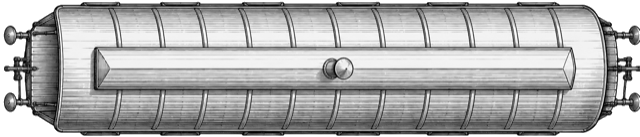
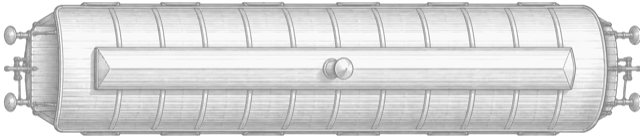
La machine prend la tête de la rame, et l'encrage s'allège de moitié
`assets/da/loco.png` rejoint la voiture. Elle est venue AVEC SON TENDER —
superbe, et encombrant : la planche fait un pour quatre virgule sept là où il
en fallait deux. Or la tête d'une rame occupe une place bornée par le convoi le
plus court : deux voitures, soixante-cinq unités en tout. On ne garde donc que
la MACHINE, de la cabine à la cheminée, et le tender reste dans les sources.
La planche est aussi RETOURNÉE : le jeu lit une tranche de gauche à droite et
pose celle de tête au début de la rame, la cheminée doit donc être à gauche.

UNE RAME COURTE NE PEUT PAS PORTER TOUTE LA MACHINE : quatre-vingt-seize unités
demandées pour soixante-cinq disponibles. Les deux bouts se comprimeraient l'un
sur l'autre ; ils se partagent désormais la place au prorata. Cela ne touche
que les convois de deux ou trois voitures, et un raccourcissement se lit mieux
qu'un empilement.

L'ENCRAGE DESCEND À LA MOITIÉ, et c'est la mesure qui compte. À pleine force la
gravure porte son propre ombré et mange la vivacité de la couleur — or ici la
couleur EST la destination, et c'est elle qui doit se lire en premier. Au banc,
la ligne V à taille réelle était un objet sombre et brun là où les quatre
autres annonçaient leur teinte d'un coup d'œil. Le gris s'éclaircit donc de
moitié à la dérivation : le trait reste, le modelé s'allège, le lavis ressort.
Un seul nombre, `ENCRAGE`, et il se change sans retoucher les sources.
[…]

diff --git a/tools/lire_png.py b/tools/lire_png.py
@@ -1,0 +1,28 @@
+# Lire un PNG sans dépendance : c'est la seule chose que `sips` ne sache pas
+# faire, et le projet n'installe rien.
+def lire(p):
+    import zlib, struct
+    d = open(p, 'rb').read(); i = 8; idat = b''; w = hh = bd = ct = 0
+    while i < len(d):
+        ln = struct.unpack('>I', d[i:i+4])[0]; t = d[i+4:i+8]
+        dat = d[i+8:i+8+ln]; i += 12 + ln
+        if t == b'IHDR': w, hh, bd, ct = struct.unpack('>IIBB', dat[:10])
+        elif t == b'IDAT': idat += dat
+        elif t == b'IEND': break
+    raw = zlib.decompress(idat); nc = {0:1, 2:3, 3:1, 4:2, 6:4}[ct]
+    bpp = nc * bd // 8; st = w * bpp
+    out = bytearray(); prev = bytearray(st); p2 = 0
+    for y in range(hh):
+        f = raw[p2]; p2 += 1; l = bytearray(raw[p2:p2+st]); p2 += st
+        for x in range(st):
+            a = l[x-bpp] if x >= bpp else 0; b = prev[x]
+            c = prev[x-bpp] if x >= bpp else 0
+            if f == 1: l[x] = (l[x] + a) & 255
+            elif f == 2: l[x] = (l[x] + b) & 255
+            elif f == 3: l[x] = (l[x] + (a + b) // 2) & 255
+            elif f == 4:
+                pa = abs(b-c); pb = abs(a-c); pc = abs(a+b-2*c)
+                pr = a if (pa <= pb and pa <= pc) else (b if pb <= pc else c)
+                l[x] = (l[x] + pr) & 255
+        out += l; prev = l
+    return w, hh, bpp, bytes(out)
